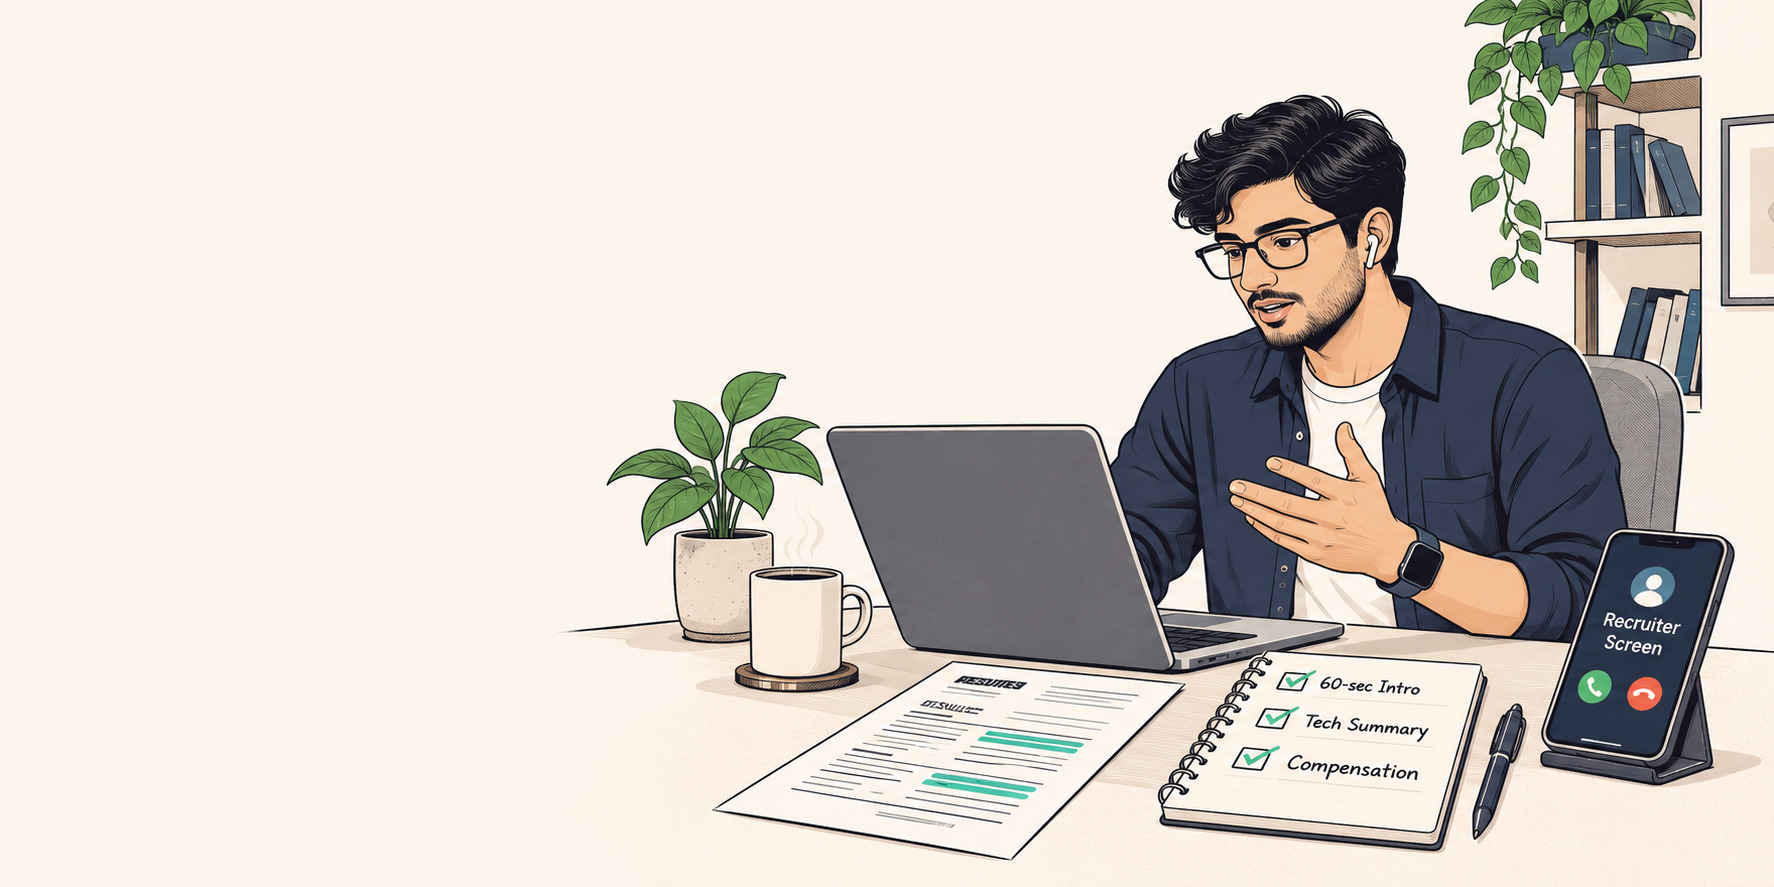
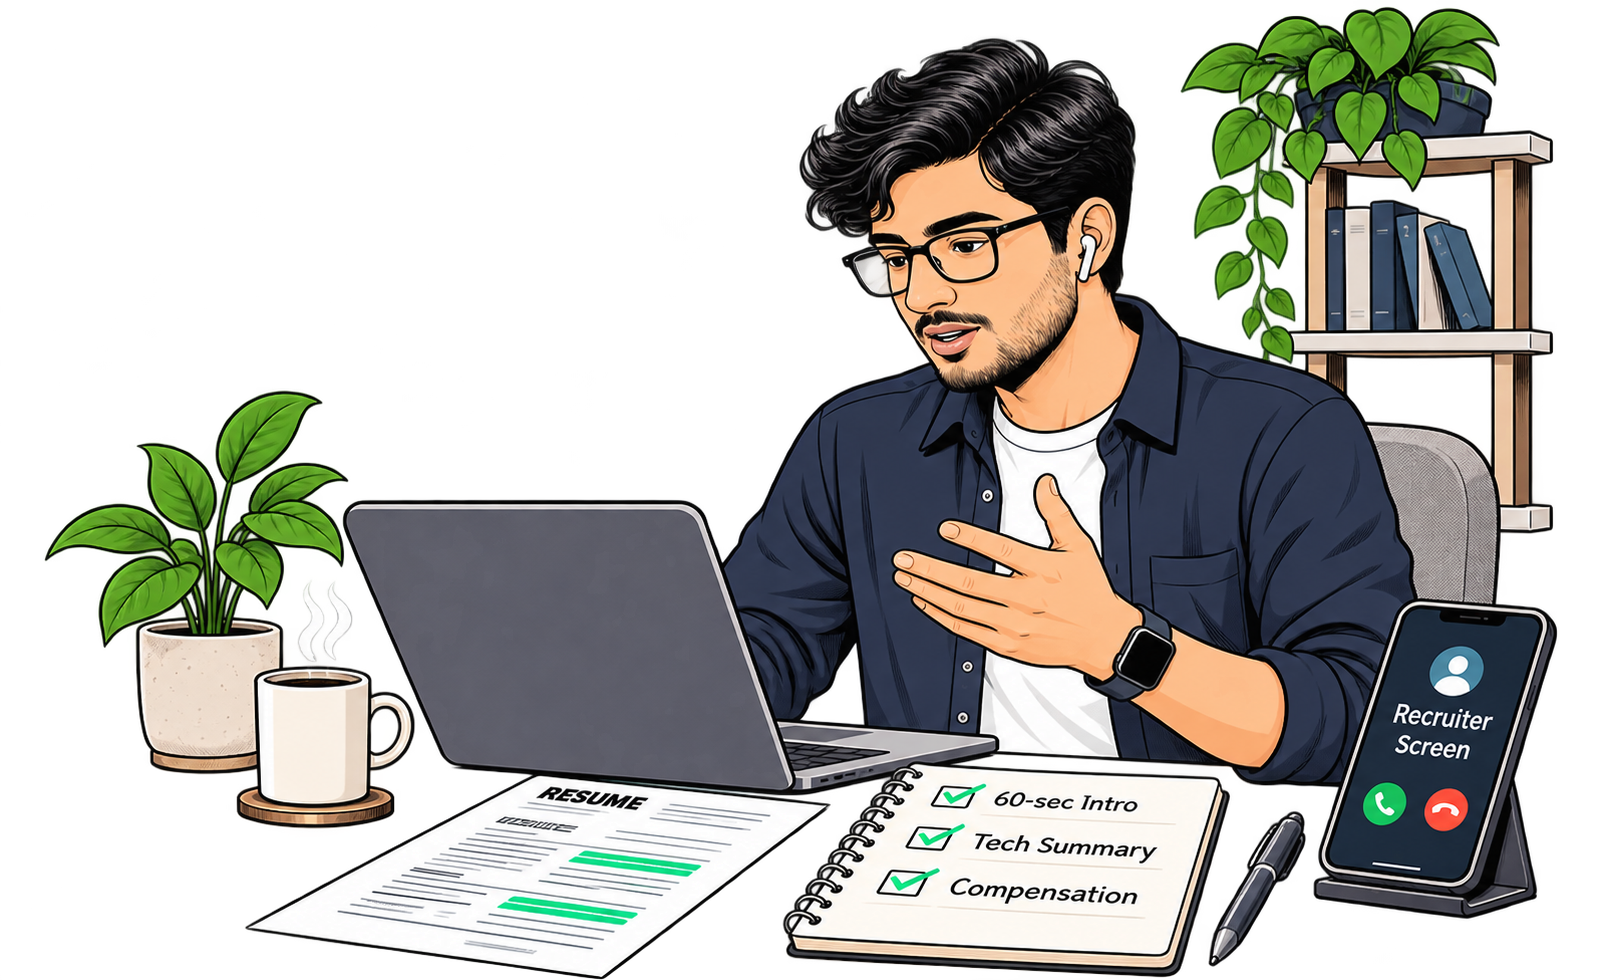
feat(pdf): switch EditorialBanner to unified 2-column #FFFFFF flex row layout

diff --git a/src/components/pdf/CareerReportPdf.jsx b/src/components/pdf/CareerReportPdf.jsx
@@ -20,7 +20,7 @@ import {
 
 // Import Verified Brand & Scene Assets
 import craftureLogo from '../../assets/images/crafture-logo.jpg'
-import pdfHeroBanner from '../../assets/images/pdf-hero-banner.jpg'
+import pdfHeroBanner from '../../assets/images/pdf-hero-banner.png'
 import pdfCtaBanner from '../../assets/images/pdf-cta-banner.jpg'
 
 // Disable automatic hyphenation across the entire document to avoid awkward "En-gineer" splits
@@ -80,87 +80,60 @@ function getRadarCoords(cx, cy, R, scores) {
 }
 
 /**
- * Seamless Editorial Banner with zero color seam.
- * Layer 1: Full-bleed image (objectFit: 'cover')
- * Layer 2: Soft fade SVG gradient mask with exact background color matching
- * Layer 3: Foreground copy (maxWidth: '46%' or '55%', padding: 16, gap: 5)
+ * Unified Editorial Banner with guaranteed non-overlapping 2-column flex row layout.
+ * Left: Children copy/meta/pills (width: '50%')
+ * Right: Crisp scene illustration (width: '48%', objectFit: 'contain')
  */
 function EditorialBanner({
   imageSrc,
-  minHeight = 180,
-  gradientId = 'fadeLeft',
-  bgColor = '#FFFFFF',
-  borderColor = '#E2E8F0',
-  textMaxWidth = '55%',
-  stop1 = { offset: '0%', opacity: 1 },
-  stop2 = { offset: '36%', opacity: 0.92 },
-  stop3 = { offset: '54%', opacity: 0 },
   children,
   style = {},
 }) {
   return (
     <View
       style={{
-        position: 'relative',
-        overflow: 'hidden',
-        borderRadius: 10,
+        flexDirection: 'row',
+        alignItems: 'center',
+        justifyContent: 'space-between',
+        backgroundColor: '#FFFFFF',
         borderWidth: 1,
-        borderColor: style?.borderColor || borderColor,
-        backgroundColor: bgColor,
-        minHeight,
+        borderColor: '#E2E8F0',
+        borderRadius: 10,
+        padding: 18,
+        gap: 14,
         marginBottom: 8,
         ...style,
       }}
       wrap={false}
     >
-      {/* Layer 1: Full-Bleed Image */}
-      {imageSrc && (
-        <Image
-          src={imageSrc}
-          style={{
-            position: 'absolute',
-            top: 0,
-            left: 0,
-            width: '100%',
-            height: '100%',
-            objectFit: 'cover',
-          }}
-        />
-      )}
-
-      {/* Layer 2: Soft Fade Mask with exact bgColor matching */}
-      <Svg
-        viewBox="0 0 530 190"
-        preserveAspectRatio="none"
-        style={{
-          position: 'absolute',
-          top: 0,
-          left: 0,
-          width: '100%',
-          height: '100%',
-        }}
-      >
-        <Defs>
-          <LinearGradient id={gradientId} x1="0%" y1="0%" x2="100%" y2="0%">
-            <Stop offset={stop1.offset} stopColor={bgColor} stopOpacity={stop1.opacity} />
-            <Stop offset={stop2.offset} stopColor={bgColor} stopOpacity={stop2.opacity} />
-            <Stop offset={stop3.offset} stopColor={bgColor} stopOpacity={stop3.opacity} />
-          </LinearGradient>
-        </Defs>
-        <Rect width="530" height="190" fill={`url(#${gradientId})`} />
-      </Svg>
-
-      {/* Layer 3: Foreground Copy with gap: 5 */}
       <View
         style={{
-          position: 'relative',
-          maxWidth: textMaxWidth,
-          padding: 16,
-          gap: 5,
+          width: '50%',
+          flexDirection: 'column',
+          gap: 6,
         }}
       >
         {children}
       </View>
+
+      {imageSrc && (
+        <View
+          style={{
+            width: '48%',
+            alignItems: 'flex-end',
+            justifyContent: 'center',
+          }}
+        >
+          <Image
+            src={imageSrc}
+            style={{
+              width: '100%',
+              maxHeight: 165,
+              objectFit: 'contain',
+            }}
+          />
+        </View>
+      )}
     </View>
   )
 }
@@ -765,15 +738,8 @@ export default function CareerReportPdf({ reportData = {} }) {
         {/* ─────────────────────────────────────────────────────────────
             1. EXECUTIVE COVER & 6-PHASE HIRING JOURNEY
             ───────────────────────────────────────────────────────────── */}
-        {/* Seamless Editorial Hero Banner with Edge-Mask Blending */}
-        <EditorialBanner
-          imageSrc={pdfHeroBanner}
-          minHeight={185}
-          gradientId="fadeLeftHero"
-          bgColor="#FCF4EB"
-          borderColor="#EADBC8"
-          textMaxWidth="46%"
-        >
+        {/* Unified Editorial Hero Banner */}
+        <EditorialBanner imageSrc={pdfHeroBanner}>
           {/* Top Brand Strip */}
           <View style={{ flexDirection: 'row', alignItems: 'center', gap: 6 }}>
             <Image src={craftureLogo} style={{ width: 18, height: 18, borderRadius: 3 }} />
@@ -782,8 +748,8 @@ export default function CareerReportPdf({ reportData = {} }) {
             </Text>
           </View>
 
-          {/* Candidate Name with generous bottom margin */}
-          <Text style={{ fontSize: 20, fontFamily: 'Helvetica-Bold', color: '#0F172A', letterSpacing: -0.3, marginTop: 2, marginBottom: 6 }}>
+          {/* Candidate Name */}
+          <Text style={{ fontSize: 18, fontFamily: 'Helvetica-Bold', color: '#0F172A', letterSpacing: -0.3, marginTop: 2, marginBottom: 2 }}>
             {candidateName}
           </Text>
 
@@ -793,7 +759,7 @@ export default function CareerReportPdf({ reportData = {} }) {
           </Text>
 
           {/* 1-Line Diagnostic Summary */}
-          <Text style={{ fontSize: 7.2, color: '#334155', lineHeight: 1.3, marginTop: 1 }}>
+          <Text style={{ fontSize: 7.2, color: '#334155', lineHeight: 1.3 }}>
             Comprehensive multi-agent career diagnostic auditing resume ATS readability, market keyword alignment, and LinkedIn inbound discovery.
           </Text>
 
@@ -804,13 +770,13 @@ export default function CareerReportPdf({ reportData = {} }) {
               alignItems: 'center',
               gap: 9,
               alignSelf: 'flex-start',
-              backgroundColor: '#FFFFFF',
+              backgroundColor: '#F8FAFC',
               borderWidth: 1,
-              borderColor: '#EADBC8',
+              borderColor: '#E2E8F0',
               borderRadius: 7,
               paddingVertical: 5,
               paddingHorizontal: 10,
-              marginTop: 6,
+              marginTop: 4,
             }}
           >
             <Text
@@ -1687,13 +1653,6 @@ export default function CareerReportPdf({ reportData = {} }) {
         {/* 7. Final Page 1-on-1 Strategy Call CTA Banner */}
         <EditorialBanner
           imageSrc={pdfCtaBanner}
-          minHeight={160}
-          gradientId="fadeLeftCta"
-          bgColor="#FFFFFF"
-          borderColor="#E2E8F0"
-          textMaxWidth="55%"
-          stop2={{ offset: '42%', opacity: 0.95 }}
-          stop3={{ offset: '64%', opacity: 0 }}
           style={{ marginTop: 8 }}
         >
           <View style={{ flexDirection: 'row', alignItems: 'center', gap: 5 }}>
@@ -1702,11 +1661,11 @@ export default function CareerReportPdf({ reportData = {} }) {
             </Text>
           </View>
 
-          <Text style={{ fontSize: 13, fontFamily: 'Helvetica-Bold', color: '#0F172A', letterSpacing: -0.2, lineHeight: 1.25, marginTop: 2 }}>
+          <Text style={{ fontSize: 12, fontFamily: 'Helvetica-Bold', color: '#0F172A', letterSpacing: -0.2, lineHeight: 1.25, marginTop: 2 }}>
             Stuck at Phase {currentPhaseId} ({currentPhaseShort})? Fix It Live in a 1-on-1 Strategy Call
           </Text>
 
-          <Text style={{ fontSize: 7.5, color: '#334155', lineHeight: 1.3, marginTop: 2 }}>
+          <Text style={{ fontSize: 7.3, color: '#334155', lineHeight: 1.3, marginTop: 2 }}>
             Work directly with an executive technical recruiter to calibrate your {targetRole} positioning, rewrite your highest-leverage bullets, and implement your customized execution plan live.
           </Text>
 
@@ -1718,7 +1677,7 @@ export default function CareerReportPdf({ reportData = {} }) {
               borderRadius: 6,
               paddingVertical: 7,
               paddingHorizontal: 14,
-              marginTop: 6,
+              marginTop: 4,
               textDecoration: 'none',
             }}
           >

diff --git a/src/components/report/FinalNextAction.jsx b/src/components/report/FinalNextAction.jsx
@@ -155,13 +155,13 @@ export default function FinalNextAction({ coachData, reportData, onBookCall }) {
             </div>
           </div>
 
-          {/* Right Column (lg:col-span-5) */}
-          <div className="lg:col-span-5">
-            <div className="rounded-xl overflow-hidden border border-[var(--border-default)] bg-white shadow-xs">
+          {/* Right Column (lg:col-span-5) - Seamless borderless illustration blend */}
+          <div className="lg:col-span-5 flex items-end justify-end">
+            <div className="relative w-full max-w-md dark:rounded-2xl dark:bg-slate-100/95 dark:p-3 dark:shadow-sm">
               <img
                 src={strategySessionImg}
                 alt="1-on-1 Strategy Session"
-                className="w-full h-auto object-cover"
+                className="w-full h-auto object-contain mix-blend-multiply dark:mix-blend-normal [mask-image:linear-gradient(to_right,transparent_0%,black_18%,black_95%,transparent_100%)] dark:[mask-image:none]"
               />
             </div>
           </div>
